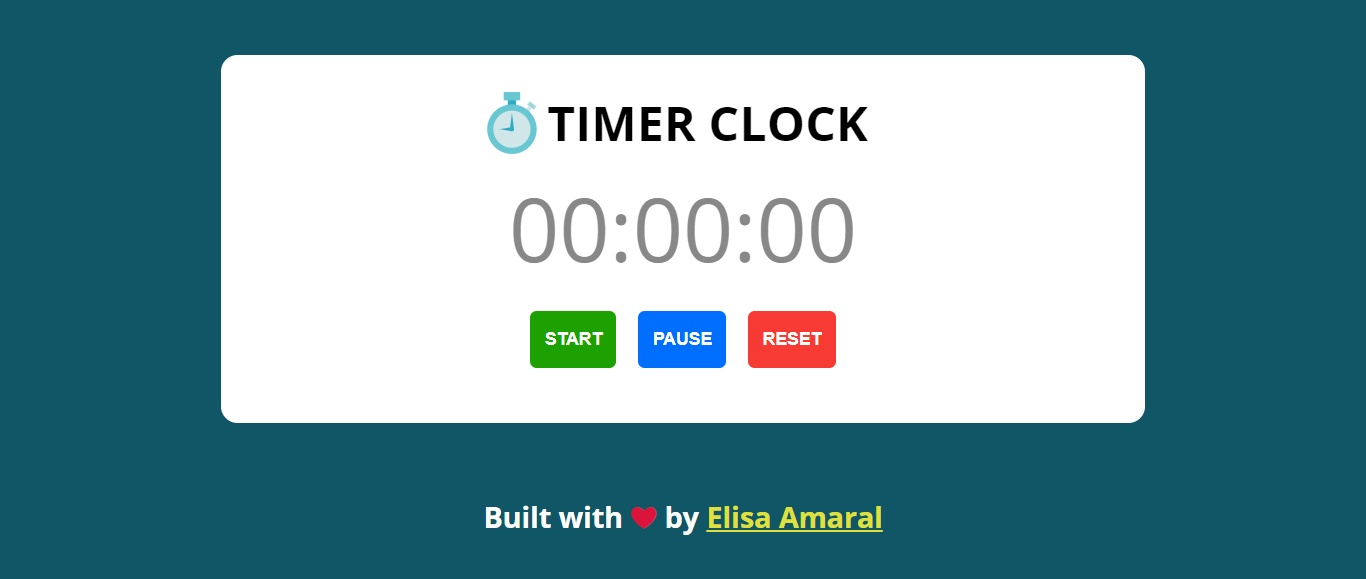
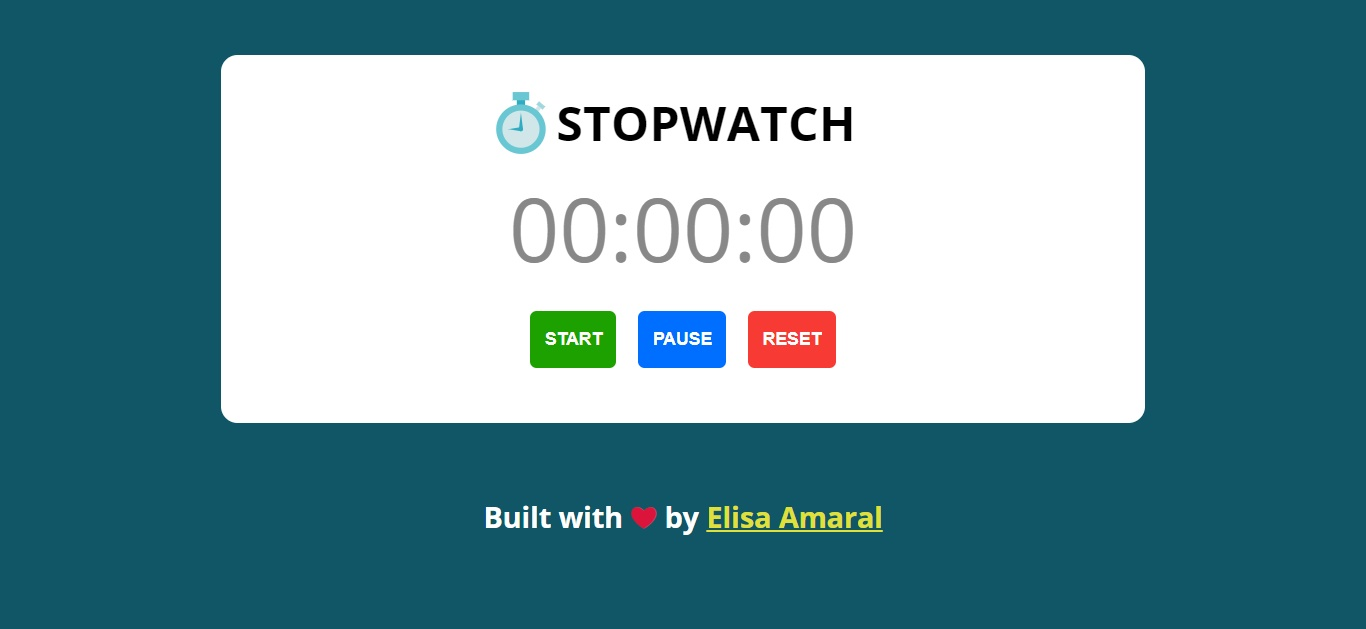
Many updates do screenshot and changed project name to Stopwatch

diff --git a/assets/js/main.js b/assets/js/main.js
@@ -1,30 +1,30 @@
-function timerClock()
+function stopwatch()
 {
     // adds number of seconds to 00:00:00 and keeps the hh:mm:ss format 
-    // number of seconds is the current timerClock count kept in 'seconds' variable
+    // number of seconds is the current stopwatch count kept in 'seconds' variable
     function getTimeFromSeconds(seconds)
     {
     const date = new Date(seconds * 1000) // standard date on 01/01/1970 
     return date.toLocaleTimeString('pt-BR', { // 12AM = 00:00:00 in pt-BR format
-        hour12: false, // no PM/AM next to the timer
-        timeZone: 'UTC' // Universal Time Coordinated timeZone to set time to standard 00:00:00, otherwise it would add/remove the hour difference between UTC timeZone based on your country timeZone and mess the timer clock
+        hour12: false, // no PM/AM next to the stopwatch
+        timeZone: 'UTC' // Universal Time Coordinated timeZone to set time to standard 00:00:00, otherwise it would add/remove the hour difference between UTC timeZone based on your country timeZone and mess the stopwatch
     });
     
     }
 
-    let seconds = 0 // keeps the timerClock count if not reseted (click Reset)
+    let seconds = 0 // keeps the stopwatch count if not reseted (click Reset)
     let timeCount // is global to be called in 'pause' EventListener
 
-    function startsTimerClock()
+    function startsStopwatch()
     {
         // keeps adding 1 second to timeCount
         timeCount = setInterval(function() {
             seconds++ 
-            timerClock.innerHTML = getTimeFromSeconds(seconds) // formats time 
+            stopwatch.innerHTML = getTimeFromSeconds(seconds) // formats time 
         }, 1000) 
     }
 
-    const timerClock = document.querySelector('.timerClock')
+    const stopwatch = document.querySelector('.stopwatch')
 
     document.addEventListener('click', function(event) {
         const element = event.target  // clicked HTML element
@@ -32,27 +32,27 @@ function timerClock()
         if(element.classList.contains('start'))
         {
             clearInterval(timeCount) // clears previous setInterval if any in the same session
-            startsTimerClock()
-            timerClock.classList.remove('waiting')
-            timerClock.classList.remove('paused')
+            startsStopwatch()
+            stopwatch.classList.remove('waiting')
+            stopwatch.classList.remove('paused')
         }
 
         if(element.classList.contains('pause'))
         {
-            timerClock.classList.add('paused')
+            stopwatch.classList.add('paused')
             clearInterval(timeCount)
         }
 
         if(element.classList.contains('reset'))
         {
             clearInterval(timeCount)
-            timerClock.innerHTML = '00:00:00'
+            stopwatch.innerHTML = '00:00:00'
             seconds = 0 // resets the variable that keeps the current timeClock count
-            timerClock.classList.remove('paused')
-            timerClock.classList.add('waiting')
+            stopwatch.classList.remove('paused')
+            stopwatch.classList.add('waiting')
         }
 
     });
 }
 
-timerClock()
+stopwatch()

diff --git a/index.html b/index.html
@@ -5,7 +5,7 @@
     <meta http-equiv="X-UA-Compatible" content="IE=edge">
     <meta name="viewport" content="width=device-width, initial-scale=1.0">
     <meta http-equiv="X-UA-Compatible" content="ie=edge">
-    <title>Timer Clock</title>
+    <title>Stopwatch</title>
     <link rel="shortcut icon" href="./assets/img/icon.svg" type="image/x-icon">
     <link rel="stylesheet" href="./assets/css/styles.css">
 </head>
@@ -13,11 +13,11 @@
 
     <section class="container">
         <div id="header">
-            <img src="./assets/img/icon.svg" alt="Timer Clock">
-            <h1>Timer Clock</h1>
+            <img src="./assets/img/icon.svg" alt="Stopwatch">
+            <h1>Stopwatch</h1>
         </div>
 
-        <p class="timerClock waiting">00:00:00</p>
+        <p class="stopwatch waiting">00:00:00</p>
 
         <div id="buttons">
             <button class="start">START</button>

diff --git a/assets/css/styles.css b/assets/css/styles.css
@@ -43,7 +43,6 @@ h1
   max-width: 84rem;
   max-height: 40rem;
   margin: 5rem auto;
-  /* margin-bottom: 3rem; */
   background: #fff;
   padding: 4rem;
   padding-top: 1rem;
@@ -55,7 +54,7 @@ h1
   display: flex;
   align-items: center;
   justify-content: center;
-  margin-left: -1.5rem ;
+  margin-left: -1.8rem ;
 }
 
 #header img
@@ -66,7 +65,7 @@ h1
   margin: 0;
 }
 
-.timerClock
+.stopwatch
 {
   margin-top: 3rem;
   margin-bottom: 5rem;
@@ -209,7 +208,7 @@ button.reset:hover
     margin: 0;
   }
 
-  .timerClock
+  .stopwatch
   {
     font-size: 6rem;
   }

diff --git a/README.md b/README.md
@@ -1,20 +1,20 @@
-# Timer Clock
+# Stopwatch
 
-This project is a Timer Clock coded in JavaScript (Vanilla JS), HTML and CSS. The user can start, pause and reset the timer.
+This project is a Stopwatch coded in JavaScript (Vanilla JS), HTML and CSS, responsive design was used in the development. The user can start, pause and reset the Stopwatch. 
 
 ## Project Link
 
-**https://timer-clock-built-with-vanilla-js.netlify.app/**
+**https://stopwatch-built-with-vanilla-js.netlify.app/**
 
-## Screenshot 1: Timer Clock Not Started Yet or Reseted
+## Screenshot 1: Stopwatch Not Started Yet or Reseted
 
 ![Screenshot](assets/img/Screenshot_1.jpg)
 
-## Screenshot 2: Timer Clock Started
+## Screenshot 2: Stopwatch Started
 
 ![Screenshot](assets/img/Screenshot_2.jpg)
 
-## Screenshot 3: Timer Clock Paused
+## Screenshot 3: Stopwatch Paused
 
 ![Screenshot](assets/img/Screenshot_3.jpg)
 
